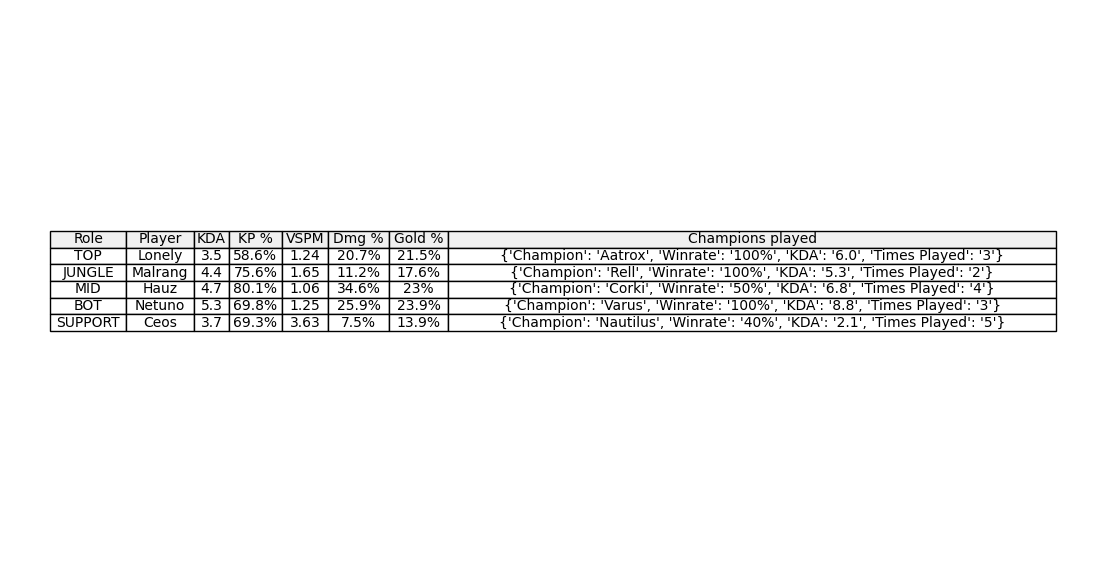
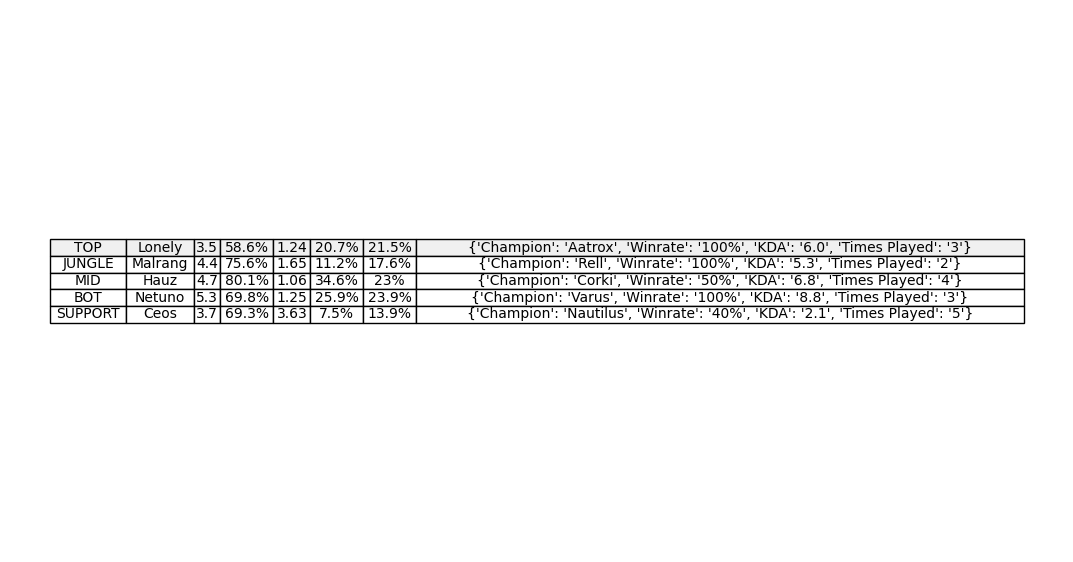
trantando undefined no JS e removendo linhas da lista que vai para o json

Changed region(s): [[0.0308, 0.3932, 0.9534, 0.605]]

diff --git a/JavaScript/script.js b/JavaScript/script.js
@@ -2,23 +2,23 @@ document.addEventListener("DOMContentLoaded", function () {
     let data = localStorage.getItem("cartinhas_data")
 
     if (data) {
-        mostrarCampeao(JSON.parse(data))
-    } else {
-        fetch("cartinhas.json")
-            .then(response => response.json())
-            .then(data => {
-                localStorage.setItem("cartinhas_data", JSON.stringify(data))
-                mostrarCampeao(data)
-            })
-            .catch(error => console.error("Erro ao obter os dados:", error))
+        localStorage.clear()
     }
+
+    fetch("cartinhas.json")
+        .then(response => response.json())
+        .then(data => {
+            localStorage.setItem("cartinhas_data", JSON.stringify(data))
+            mostrarCampeao(data)
+        })
+        .catch(error => console.error("Erro ao obter os dados:", error))
 
     function mostrarCampeao(data) {
         data.forEach(element => {
-            console.log(element[1])
-            console.log(element[2])
-            console.log(element[3])
-            console.log(element[7])
+            if(element[1] != undefined) console.log(element[1])
+            if(element[2] != undefined) console.log(element[2])
+            if(element[3] != undefined) console.log(element[3])
+            if(element[7] != undefined) console.log(element[7])
         });
     }
 })

diff --git a/index.html b/index.html
@@ -45,7 +45,7 @@
             </div>
         </div>
     </div>
-    <script src="JavaScript/script.js"></script>
+    <script src="javascript/script.js"></script>
     <script src="https://cdn.jsdelivr.net/npm/@popperjs/core@2.11.8/dist/umd/popper.min.js" integrity="sha384-I7E8VVD/ismYTF4hNIPjVp/Zjvgyol6VFvRkX/vR+Vc4jQkC+hVqc2pM8ODewa9r" crossorigin="anonymous"></script>
     <script src="https://cdn.jsdelivr.net/npm/bootstrap@5.3.3/dist/js/bootstrap.min.js" integrity="sha384-0pUGZvbkm6XF6gxjEnlmuGrJXVbNuzT9qBBavbLwCsOGabYfZo0T0to5eqruptLy" crossorigin="anonymous"></script>
 </body>

diff --git a/torneio/CBLOL/2024-1/cartinhasTimes.py b/torneio/CBLOL/2024-1/cartinhasTimes.py
@@ -4,6 +4,7 @@ import pandas as pd
 import matplotlib.pyplot as plt
 import re
 import json
+import numpy as np
 
 def extract_champion_data(champion_info):
     champion = ''
@@ -53,13 +54,30 @@ def extract_teams_data(url, time):
                 columns = row.find_all(['td', 'th'])
                 data.append([column.text.strip() for column in columns])
 
-            for row in data[1:]:
+            # Encontre o número máximo de colunas
+            max_columns = max(len(row) for row in data)
+
+            # Certifique-se de que todas as linhas tenham o mesmo número de colunas
+            data = [row + [''] * (max_columns - len(row)) for row in data]
+
+            data = np.delete(data, 0, axis=0)
+            data = data.tolist()
+            
+            for row in data:
                 if len(row) == 8:
                     champion_info = row[-1]
                     champion_data = extract_champion_data(champion_info)
                     row[-1] = champion_data
-            print(data)
             
+            if(data[0][0] == 'Last line-up'):
+                data = np.delete(data, 0, axis=0)
+                data = data.tolist()
+                
+            if(len(data) > 5):
+                data = np.delete(data, 5, axis=0)
+                data = data.tolist()
+                
+            print(data)
             json_data = json.dumps(data)
             
             with open('cartinhas.json', 'w') as f:
